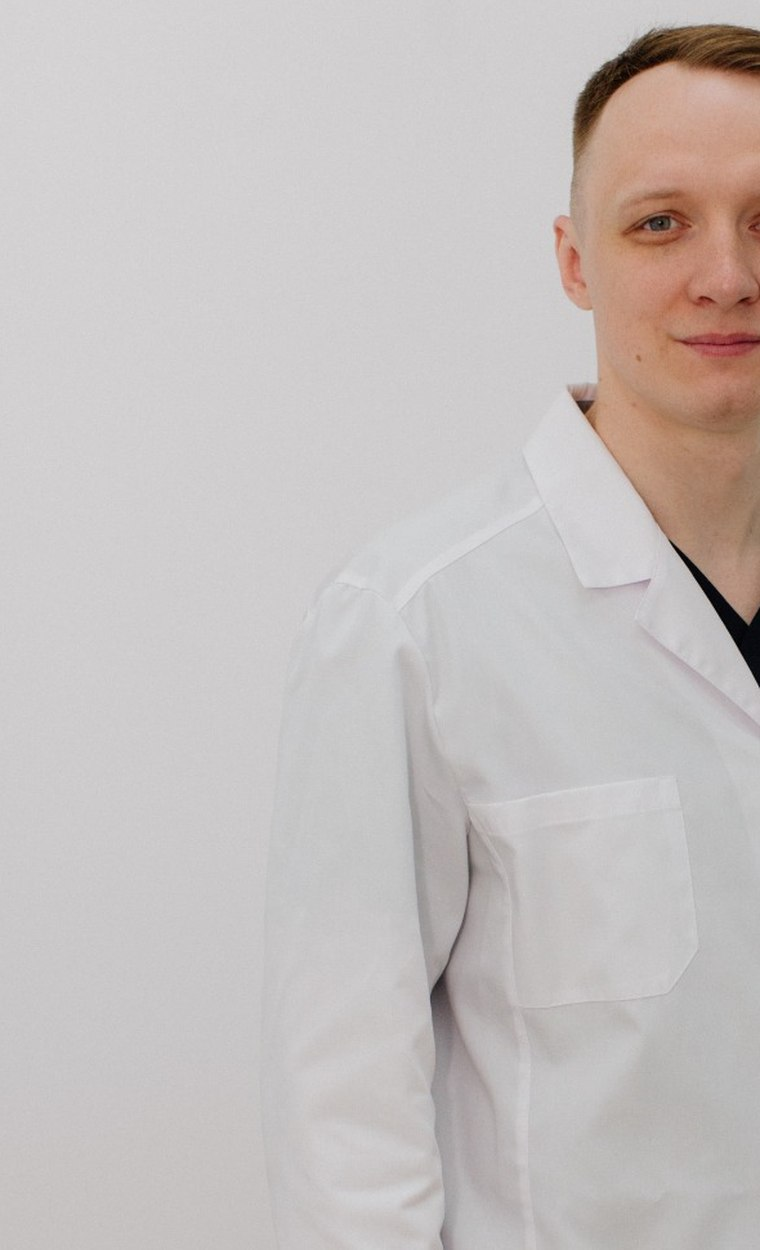
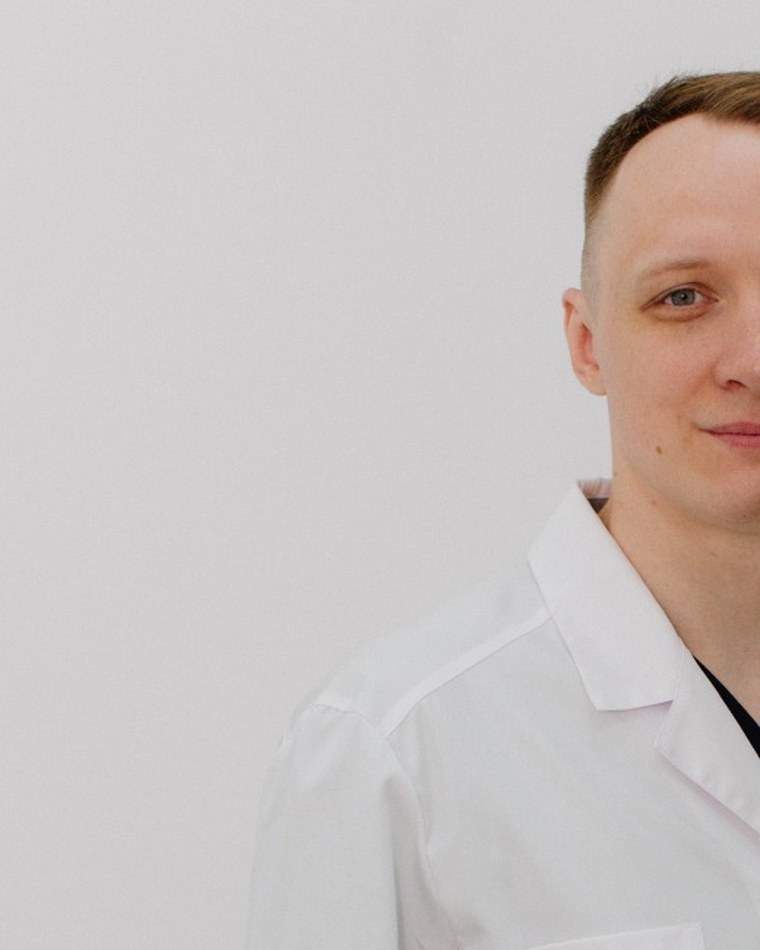
Hero: портрет голова-плечи — лицо крупно, по центру, полностью видно (cache-bust v4)

diff --git a/site/index.html b/site/index.html
@@ -407,7 +407,7 @@ img{max-width:100%;display:block}
     </div>
     <div class="reveal">
       <div class="hero-photo">
-        <img src="doctor.jpg?v=3" alt="Братусь Михаил Андреевич — врач-реабилитолог" loading="eager" />
+        <img src="doctor.jpg?v=4" alt="Братусь Михаил Андреевич — врач-реабилитолог" loading="eager" />
         <div class="float-card">
           <div class="fc-num">7+</div>
           <small>лет практики<br>с 2019 года</small>